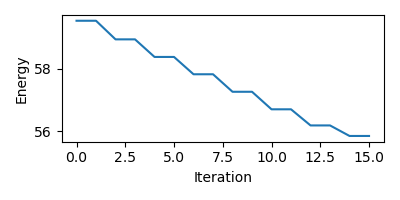
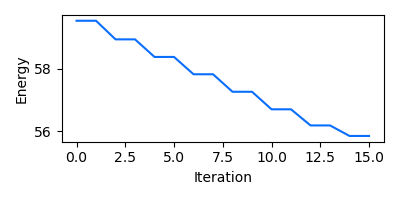
Change color

diff --git a/doc/figure_scripts/api.py b/doc/figure_scripts/api.py
@@ -168,7 +168,9 @@ hydride.add_hydrogen(molecule, name_library=library)
 
 
 print("\nEND OF SNIPPET\n", end="")
-import matplotlib
+import matplotlib.pyplot as plt
+import matplotlib as mpl
+plt.rcParams['axes.prop_cycle'] = mpl.cycler(color=[COLORS["N"]])
 
 
 ########################################################################

diff --git a/doc/api.rst b/doc/api.rst
@@ -287,11 +287,10 @@ If the residues in the input structure are part of the
 
     molecule.bonds = struc.connect_via_residue_names(molecule)
 
+|
 
 Classes and functions
 ---------------------
-
-|
 
 .. autoclass:: FragmentLibrary
     :members:
